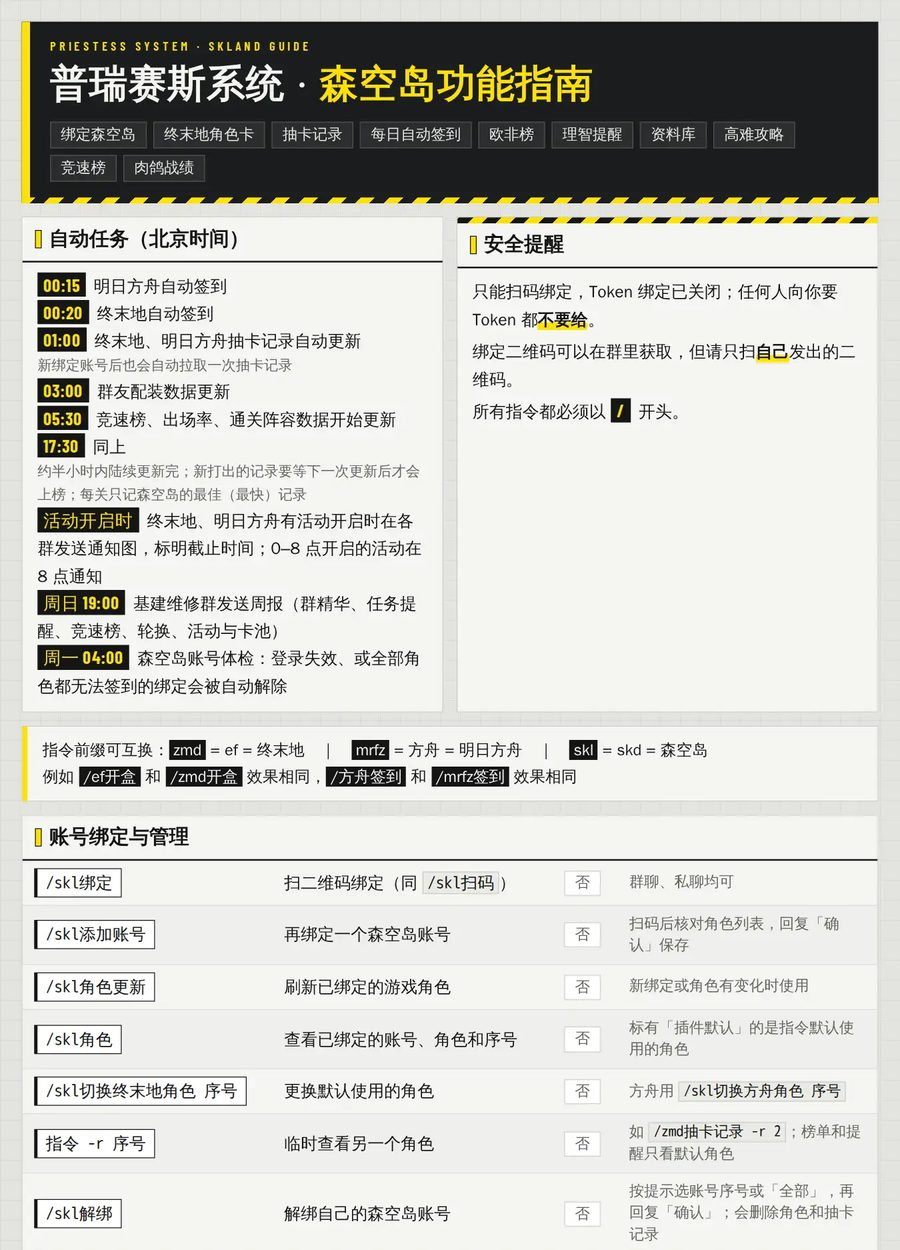
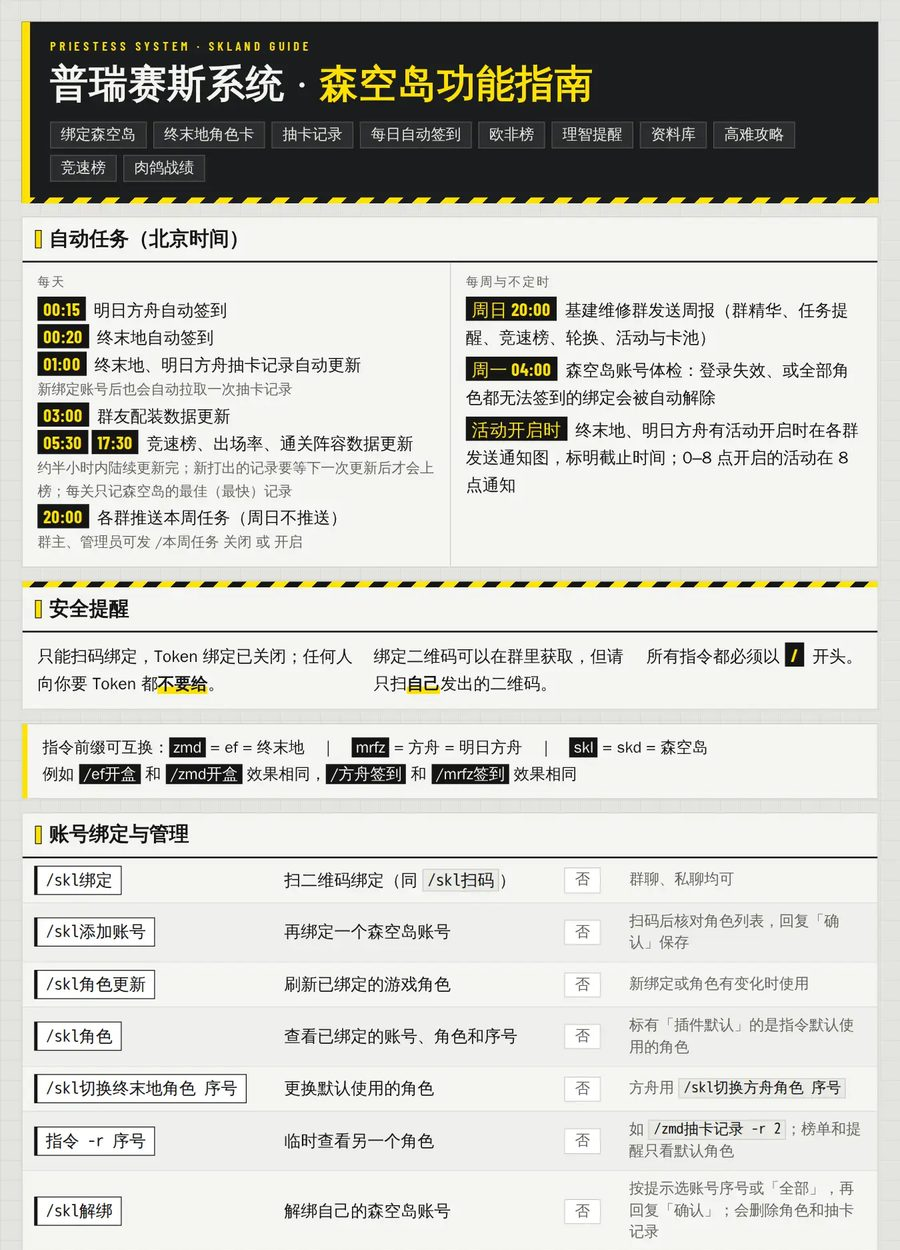
本周任务每天 20:00 推送，周报改到周日 20:00
周一至周六 20:00 向各群推送本周任务图，群主、管理员可用 /本周任务 关闭 或 开启 控制本群；周日不推送，周报改在周日 20:00 发送。帮助图重新排版：自动任务分「每天」「每周与不定时」两栏，安全提醒改为横排。README 与截图同步更新。

diff --git a/plugins/skl_help/help.html b/plugins/skl_help/help.html
@@ -71,6 +71,11 @@ body { width: 1080px; padding: 26px; }
 .dim { color: var(--ef-sub); font-size: 17px; }
 .time { display: inline-block; margin-right: 4px; padding: 0 7px; line-height: 1.4; font-family: var(--ef-num); font-weight: 700; font-size: 21px;
   letter-spacing: .5px; background: var(--ef-ink); color: var(--ef-yellow); }
+.cols { display: grid; grid-template-columns: 1fr 1fr; }
+.cols .bd + .bd { border-left: 1px solid var(--ef-line); }
+.colh { margin-bottom: 4px; font-size: 15px; font-weight: 700; letter-spacing: 2px; color: var(--ef-sub); }
+.safe { display: grid; grid-template-columns: 1.25fr 1fr auto; gap: 22px; }
+.safe > div:last-child { white-space: nowrap; }
 .warn { position: relative; }
 .warn:before { content: ""; display: block; height: 7px; background: repeating-linear-gradient(-45deg, var(--ef-yellow) 0 12px, var(--ef-ink) 12px 24px); }
 .red { font-weight: 900; color: var(--ef-ink); box-shadow: inset 0 -9px 0 var(--ef-yellow); }
@@ -111,30 +116,36 @@ td.note { color: var(--ef-sub); font-size: 18px; }
     </div>
   </div>
 
-  <div class="row">
-    <div class="ef-sec auto">
-      <h3>自动任务（北京时间）</h3>
+  <div class="ef-sec auto">
+    <h3>自动任务（北京时间）</h3>
+    <div class="cols">
       <div class="bd">
+      <div class="colh">每天</div>
       <div><span class="time">00:15</span> 明日方舟自动签到</div>
       <div><span class="time">00:20</span> 终末地自动签到</div>
       <div><span class="time">01:00</span> 终末地、明日方舟抽卡记录自动更新</div>
       <div class="dim">新绑定账号后也会自动拉取一次抽卡记录</div>
       <div><span class="time">03:00</span> 群友配装数据更新</div>
-      <div><span class="time">05:30</span> 竞速榜、出场率、通关阵容数据开始更新</div>
-      <div><span class="time">17:30</span> 同上</div>
+      <div><span class="time">05:30</span><span class="time">17:30</span> 竞速榜、出场率、通关阵容数据更新</div>
       <div class="dim">约半小时内陆续更新完；新打出的记录要等下一次更新后才会上榜；每关只记森空岛的最佳（最快）记录</div>
-      <div><span class="time">活动开启时</span> 终末地、明日方舟有活动开启时在各群发送通知图，标明截止时间；0–8 点开启的活动在 8 点通知</div>
-      <div><span class="time">周日 19:00</span> 基建维修群发送周报（群精华、任务提醒、竞速榜、轮换、活动与卡池）</div>
-      <div><span class="time">周一 04:00</span> 森空岛账号体检：登录失效、或全部角色都无法签到的绑定会被自动解除</div>
+      <div><span class="time">20:00</span> 各群推送本周任务（周日不推送）</div>
+      <div class="dim">群主、管理员可发 /本周任务 关闭 或 开启</div>
+      </div>
+      <div class="bd">
+      <div class="colh">每周与不定时</div>
+      <div><span class="time">周日 20:00</span> 基建维修群发送周报（群精华、任务提醒、竞速榜、轮换、活动与卡池）</div>
+      <div class="gap"><span class="time">周一 04:00</span> 森空岛账号体检：登录失效、或全部角色都无法签到的绑定会被自动解除</div>
+      <div class="gap"><span class="time">活动开启时</span> 终末地、明日方舟有活动开启时在各群发送通知图，标明截止时间；0–8 点开启的活动在 8 点通知</div>
       </div>
     </div>
-    <div class="ef-sec warn">
-      <h3>安全提醒</h3>
-      <div class="bd">
+  </div>
+
+  <div class="ef-sec warn">
+    <h3>安全提醒</h3>
+    <div class="bd safe">
       <div>只能扫码绑定，Token 绑定已关闭；任何人向你要 Token 都<span class="red">不要给</span>。</div>
-      <div class="gap">绑定二维码可以在群里获取，但请只扫<span class="red">自己</span>发出的二维码。</div>
-      <div class="gap">所有指令都必须以 <span class="time">/</span> 开头。</div>
-      </div>
+      <div>绑定二维码可以在群里获取，但请只扫<span class="red">自己</span>发出的二维码。</div>
+      <div>所有指令都必须以 <span class="time">/</span> 开头。</div>
     </div>
   </div>
 
@@ -218,7 +229,7 @@ td.note { color: var(--ef-sub); font-size: 18px; }
   <div class="ef-sec sec misc">
     <h3>其他</h3>
     <table>
-      <tr><td class="cmd"><code>/本周任务</code></td><td class="fn">两款游戏的周常：方舟剿灭、周常任务、保全派驻，终末地每周事务、通行证周常</td><td class="at"><span class="na">—</span></td><td class="note">周一 04:00 重置</td></tr>
+      <tr><td class="cmd"><code>/本周任务</code></td><td class="fn">两款游戏的周常：方舟剿灭、周常任务、保全派驻，终末地每周事务、通行证周常</td><td class="at"><span class="na">—</span></td><td class="note">每天 20:00 推送（周日除外）；群主、管理员可发 /本周任务 关闭 或 开启</td></tr>
       <tr><td class="cmd"><code>/理智</code></td><td class="fn">查看方舟和终末地当前理智</td><td class="at"><span class="no">否</span></td><td class="note">显示多久后回满</td></tr>
       <tr><td class="cmd"><code>/理智提醒 开</code></td><td class="fn">理智回满时在本群 @你</td><td class="at"><span class="no">否</span></td><td class="note">在群里开启；关闭发 <code>/理智提醒 关</code></td></tr>
       <tr><td class="cmd"><code>/skl帮助</code></td><td class="fn">显示本帮助图</td><td class="at"><span class="no">否</span></td><td class="note">也可发 <code>/帮助</code> <code>/help</code></td></tr>

diff --git a/plugins/weekly_report/__init__.py b/plugins/weekly_report/__init__.py
@@ -1,4 +1,4 @@
-"""Weekly group report, posted on Sunday 19:00 (Asia/Shanghai).
+"""Weekly group report, posted on Sunday 20:00 (Asia/Shanghai).
 
 Sections: this week's group essence messages (the bot's own are skipped), weekly task reminders,
 this group's War Echoes speed top 3, rotation countdown and the next rotation, activities opening /
@@ -14,6 +14,8 @@ while AT_ALL is True: the owner turned it off on 2026-10-18.
 /周报预览   (superuser) render the report for the current chat, never with @全体
 /本周任务   (everyone) the weekly task section alone: Arknights annihilation, weekly missions and 保全派驻;
             Endfield 每周事务 and the pass's weekly tasks (the owner's choice: the rotation has its own section)
+            The same picture goes to every group at 20:00 Monday to Saturday (Sunday 20:00 is the report); a group owner or admin (or a superuser)
+            stops it there with /本周任务 关闭 and resumes it with /本周任务 开启 (data/weekly_report/tasks_off.json).
 """
 
 from __future__ import annotations
@@ -30,7 +32,8 @@ from html import escape
 import httpx
 from PIL import Image
 from nonebot import logger, on_command, require
-from nonebot.adapters.onebot.v11 import Bot, GroupMessageEvent, MessageEvent, MessageSegment
+from nonebot.adapters.onebot.v11 import Bot, GroupMessageEvent, Message, MessageEvent, MessageSegment
+from nonebot.params import CommandArg
 from nonebot.permission import SUPERUSER
 from nonebot.plugin import PluginMetadata
 
@@ -52,7 +55,7 @@ from plugins import endfield_wiki as wiki
 
 __plugin_meta__ = PluginMetadata(
     name="Weekly report",
-    description="每周日 19:00 的群周报。",
+    description="每周日 20:00 的群周报。",
     usage="/周报预览（超级用户）",
     type="application",
 )
@@ -64,6 +67,8 @@ DATA_DIR = store.get_plugin_data_dir()
 DATA_DIR.mkdir(mode=0o700, parents=True, exist_ok=True)
 ADMIN_FILE = DATA_DIR / "admin_groups.json"  # refreshed daily at 06:00
 CONFIG_FILE = DATA_DIR / "config.json"  # {"groups": [...]}: the only groups that get the Sunday report
+TASKS_OFF_FILE = DATA_DIR / "tasks_off.json"  # [group numbers] that turned the daily /本周任务 picture off
+ROLES = {"owner", "admin"}  # may turn the daily picture off or on in their group
 ESSENCE_LIMIT = 8
 IMAGE_LIMIT = 10 * 1024 * 1024
 AT_ALL = False  # @全体成员 with the scheduled Sunday report; off at the owner's request since 2026-10-18
@@ -466,7 +471,7 @@ async def build_report(bot: Bot, group_id: int | None, viewer: str | None = None
             f'WEEK<b>{week_start:%y}-W{week_start.isocalendar().week:02d}</b>',
         )
         + "".join(sections)
-        + ef_theme.foot(f'关卡、活动与卡池数据来自 AKEData（版本 {escape(index.get("version", ""))}），竞速记录来自森空岛，每天 05:30、17:30 更新<br>每周日 19:00 发送 · 全部指令发 /skl帮助')
+        + ef_theme.foot(f'关卡、活动与卡池数据来自 AKEData（版本 {escape(index.get("version", ""))}），竞速记录来自森空岛，每天 05:30、17:30 更新<br>每周日 20:00 发送 · 全部指令发 /skl帮助')
         + "</body></html>"
     )
     return await ef_theme.render_page(html, WIDTH, height=600, template_path=wiki.DATA_DIR.as_uri())
@@ -573,6 +578,32 @@ async def send_all(bot: Bot, at_all: bool = True) -> dict[str, int]:
     return stats
 
 
+@scheduler.scheduled_job("cron", day_of_week="mon-sat", hour=20, minute=0, timezone="Asia/Shanghai", id="weekly_tasks_daily", misfire_grace_time=1800)
+async def _daily_tasks() -> None:
+    """The /本周任务 picture to every group that has not turned it off; drawn once, sent one group at a time."""
+    bot = _current_bot()
+    if bot is None:
+        logger.warning("Daily weekly tasks: no OneBot connection")
+        return
+    try:
+        image = await build_tasks()
+    except Exception as e:
+        logger.warning(f"Daily weekly tasks: page failed ({type(e).__name__})")
+        return
+    off, sent, failed = _tasks_off(), 0, 0
+    for group in await bot.get_group_list():
+        if group["group_id"] in off:
+            continue
+        try:
+            await (_current_bot() or bot).send_group_msg(group_id=group["group_id"], message=MessageSegment.image(image))
+            sent += 1
+        except Exception as e:
+            failed += 1
+            logger.warning(f"Daily weekly tasks failed for a group: {type(e).__name__}")
+        await asyncio.sleep(SEND_GAP)
+    logger.info(f"Daily weekly tasks sent to {sent} groups, {failed} failed, {len(off)} turned off")
+
+
 @scheduler.scheduled_job("cron", hour=6, minute=0, timezone="Asia/Shanghai", id="weekly_report_admin_check", misfire_grace_time=3600)
 async def _admin_check() -> None:
     bot = _current_bot()
@@ -582,7 +613,7 @@ async def _admin_check() -> None:
     await refresh_admin_groups(bot)
 
 
-@scheduler.scheduled_job("cron", day_of_week="sun", hour=19, minute=0, timezone="Asia/Shanghai", id="weekly_report", misfire_grace_time=600)
+@scheduler.scheduled_job("cron", day_of_week="sun", hour=20, minute=0, timezone="Asia/Shanghai", id="weekly_report", misfire_grace_time=600)
 async def _weekly() -> None:
     bot = _current_bot()
     if bot is None:
@@ -604,14 +635,39 @@ async def build_tasks() -> bytes:
         f'<!doctype html><html><head><meta charset="utf-8"><style>{ef_theme.css()}{CSS % WIDTH}</style></head><body class="ef">'
         + ef_theme.head("Weekly Tasks", "本周 <em>任务</em>", f"{reset - timedelta(days=7):%m/%d} – {reset:%m/%d} 周一 04:00 重置")
         + _tasks_section(index, now)
-        + ef_theme.foot(f'明日方舟数据来自游戏数据表，终末地数据来自 AKEData（版本 {escape(index.get("version", ""))}）<br>周报每周日 19:00 发送 · 全部指令发 /skl帮助')
+        + ef_theme.foot(f'明日方舟数据来自游戏数据表，终末地数据来自 AKEData（版本 {escape(index.get("version", ""))}）<br>周报每周日 20:00 发送 · 全部指令发 /skl帮助')
         + "</body></html>"
     )
     return await ef_theme.render_page(html, WIDTH, height=600, template_path=wiki.DATA_DIR.as_uri())
 
 
+def _tasks_off() -> set[int]:
+    try:
+        return {int(g) for g in json.loads(TASKS_OFF_FILE.read_text("utf-8"))}
+    except (OSError, ValueError, TypeError):
+        return set()
+
+
+def _set_tasks_off(group_id: int, off: bool) -> None:
+    groups = _tasks_off() - {group_id} | ({group_id} if off else set())
+    tmp = TASKS_OFF_FILE.with_suffix(".tmp")
+    tmp.write_text(json.dumps(sorted(groups)), "utf-8")
+    tmp.chmod(0o600)
+    tmp.replace(TASKS_OFF_FILE)
+
+
 @tasks_command.handle()
-async def _() -> None:
+async def _(bot: Bot, event: MessageEvent, arg: Message = CommandArg()) -> None:
+    action = arg.extract_plain_text().strip()
+    if action in ("关闭", "开启"):
+        if not isinstance(event, GroupMessageEvent):
+            await tasks_command.finish("请在群里发送：/本周任务 关闭 或 /本周任务 开启")
+        if (event.sender.role or "") not in ROLES and not await SUPERUSER(bot, event):
+            await tasks_command.finish("只有群主和管理员可以开关本群的每日任务推送")
+        _set_tasks_off(event.group_id, action == "关闭")
+        await tasks_command.finish("已关闭本群每天 20:00（周日除外）的本周任务推送，发送 /本周任务 开启 可恢复" if action == "关闭" else "已开启本群每天 20:00（周日除外）的本周任务推送")
+    if action:
+        await tasks_command.finish("用法：/本周任务　群主、管理员可发 /本周任务 关闭 或 开启 每天 20:00 的推送（周日不推送）")
     try:
         image = await build_tasks()
     except Exception as e:

diff --git a/README.md b/README.md
@@ -62,7 +62,8 @@ A QQ group bot for Arknights: Endfield / Arknights communities, built on NoneBot
 ### 通知与群功能
 
 - 活动日历与活动开启通知（两款游戏）：有活动开启时在各群发一张通知图，不 @全体，夜间开启的在早上统一发
-- 群周报（每周日 19:00）：本周群精华、每周任务、本群竞速前三、关卡轮换、活动与卡池倒计时；每周任务部分也可以随时用 `/本周任务` 查看
+- 群周报（每周日 20:00）：本周群精华、每周任务、本群竞速前三、关卡轮换、活动与卡池倒计时
+- 本周任务：两款游戏的周常一张图，周一到周六 20:00 推送到各群，群主、管理员可在本群关闭；也可以随时用 `/本周任务` 查看
 - 理智查询，理智回满时在群内提醒
 - 自动同意入群邀请；可选为新群添加 nonebot-bison 的默认订阅，机器人被移出群后自动移除该群的订阅，见「部署」
 
@@ -265,6 +266,7 @@ NapCat 以反向 WebSocket 客户端连入。动态推送可另外搭配
 | `/mrfz活动`（`/明日方舟活动`、`/粥活动`、`/舟日历` 等） | 明日方舟，同上 |
 | `/活动`、`/日历` | 两款游戏各发一张 |
 | `/本周任务`（`/每周任务`、`/周常任务`） | 两款游戏的周常：方舟剿灭（本期轮换）、周常任务、保全派驻，终末地每周事务、通行证周常 |
+| `/本周任务 关闭` / `开启` | 群主、管理员关闭或恢复本群每天 20:00 的推送 |
 
 游戏名与「活动 / 日历 / 活动日历 / 活动列表」之间可以有空格或「的」。时间均为北京时间。
 
@@ -328,7 +330,8 @@ NapCat 以反向 WebSocket 客户端连入。动态推送可另外搭配
 | 每 5 分钟 | 检查两款游戏是否有活动开启，有则向所有群发送通知图（0–8 点开启的在 8 点发送） | `game_calendar` |
 | 每 30 分钟 | 检查明日方舟游戏数据版本，每小时查询一次 PRTS Wiki 已登记的活动 | `game_calendar` |
 | 每 6 小时 | 预下载明日方舟干员的立绘、头像等图片 | `skland_ark_assets` |
-| 每周日 19:00 | 发送周报（默认所有群，`data/weekly_report/config.json` 的 `groups` 可指定） | `weekly_report` |
+| 周一至周六 20:00 | 向各群推送本周任务（已用 `/本周任务 关闭` 的群除外） | `weekly_report` |
+| 每周日 20:00 | 发送周报（默认所有群，`data/weekly_report/config.json` 的 `groups` 可指定） | `weekly_report` |
 | 每周一 04:00 | 森空岛账号体检 | `skland_health` |
 
 ## 目录结构
